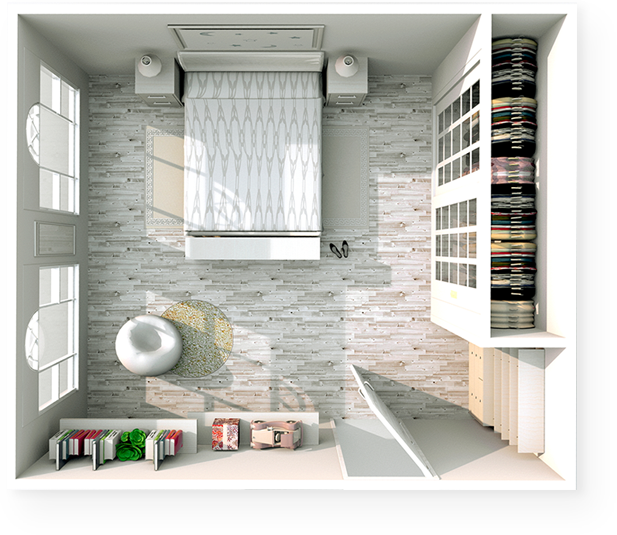
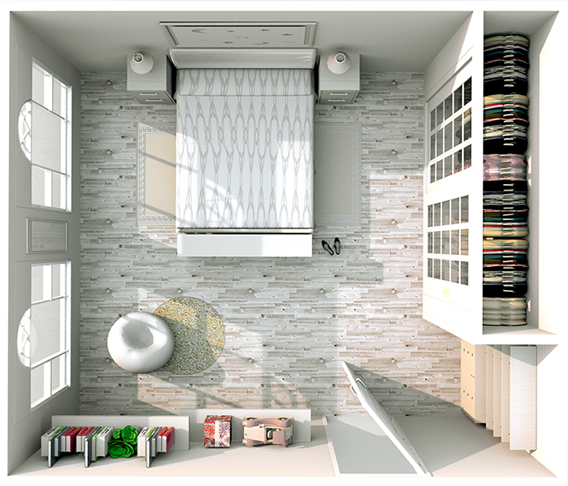
Заменил изображение в секции hero, изменил титулку страницы

diff --git a/src/index.html b/src/index.html
@@ -5,7 +5,7 @@
   <meta charset="UTF-8">
   <meta name="viewport" content="width=device-width, initial-scale=1.0">
   <meta http-equiv="X-UA-Compatible" content="ie=edge">
-  <title>Lesson 13</title>
+  <title>Website</title>
   <link rel="stylesheet" href="css/normalize.css">
   <link rel="stylesheet" href="css/style.css">
 </head>

diff --git a/src/sass/blocks/_hero.sass b/src/sass/blocks/_hero.sass
@@ -81,7 +81,6 @@
         line-height: 1.2
         letter-spacing: -0.2px
   &-image
-    
 .hero-item-1
   margin-bottom: 23px
 .hero-item-2
